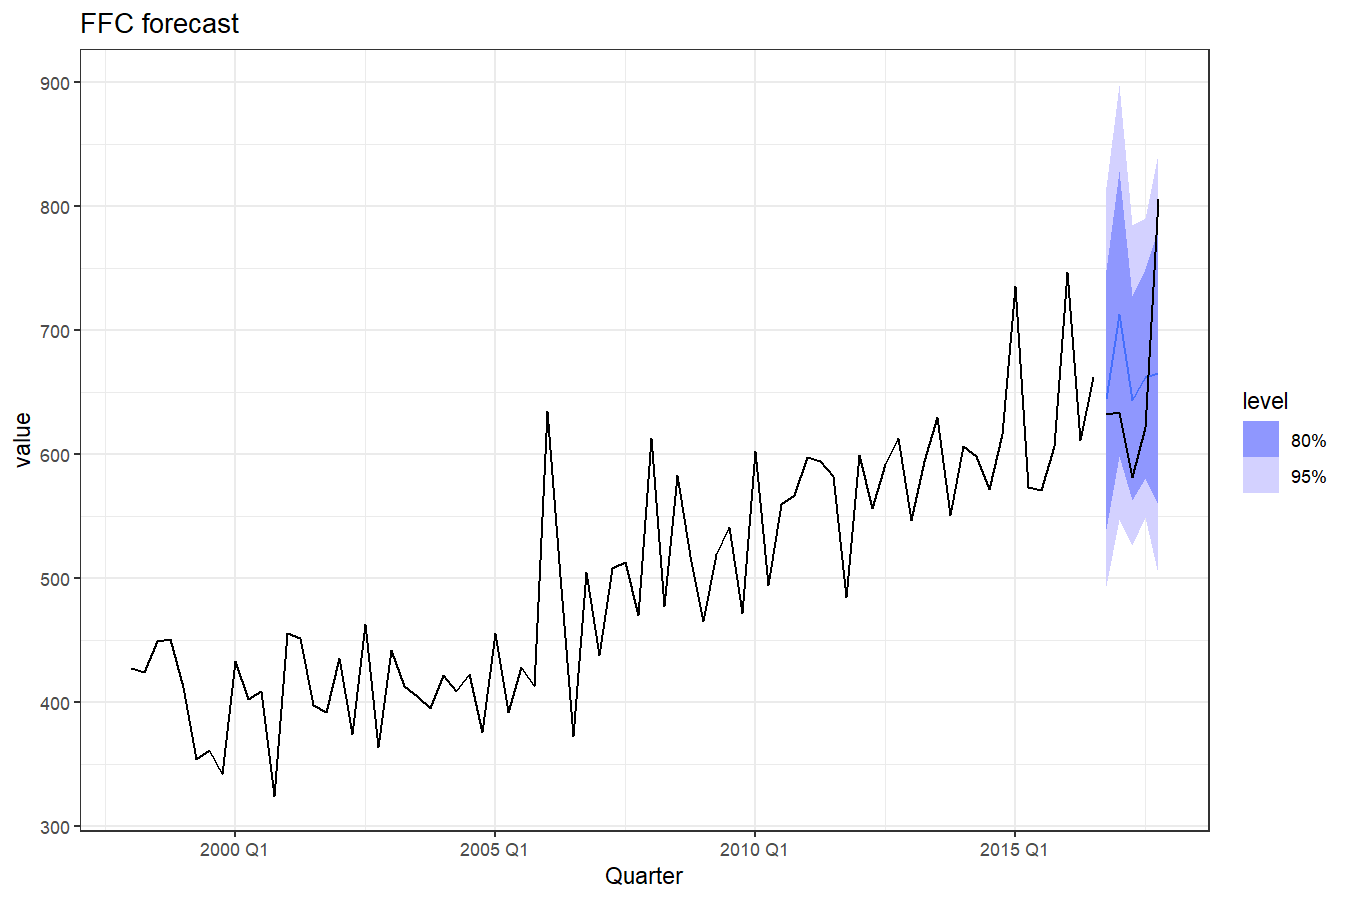
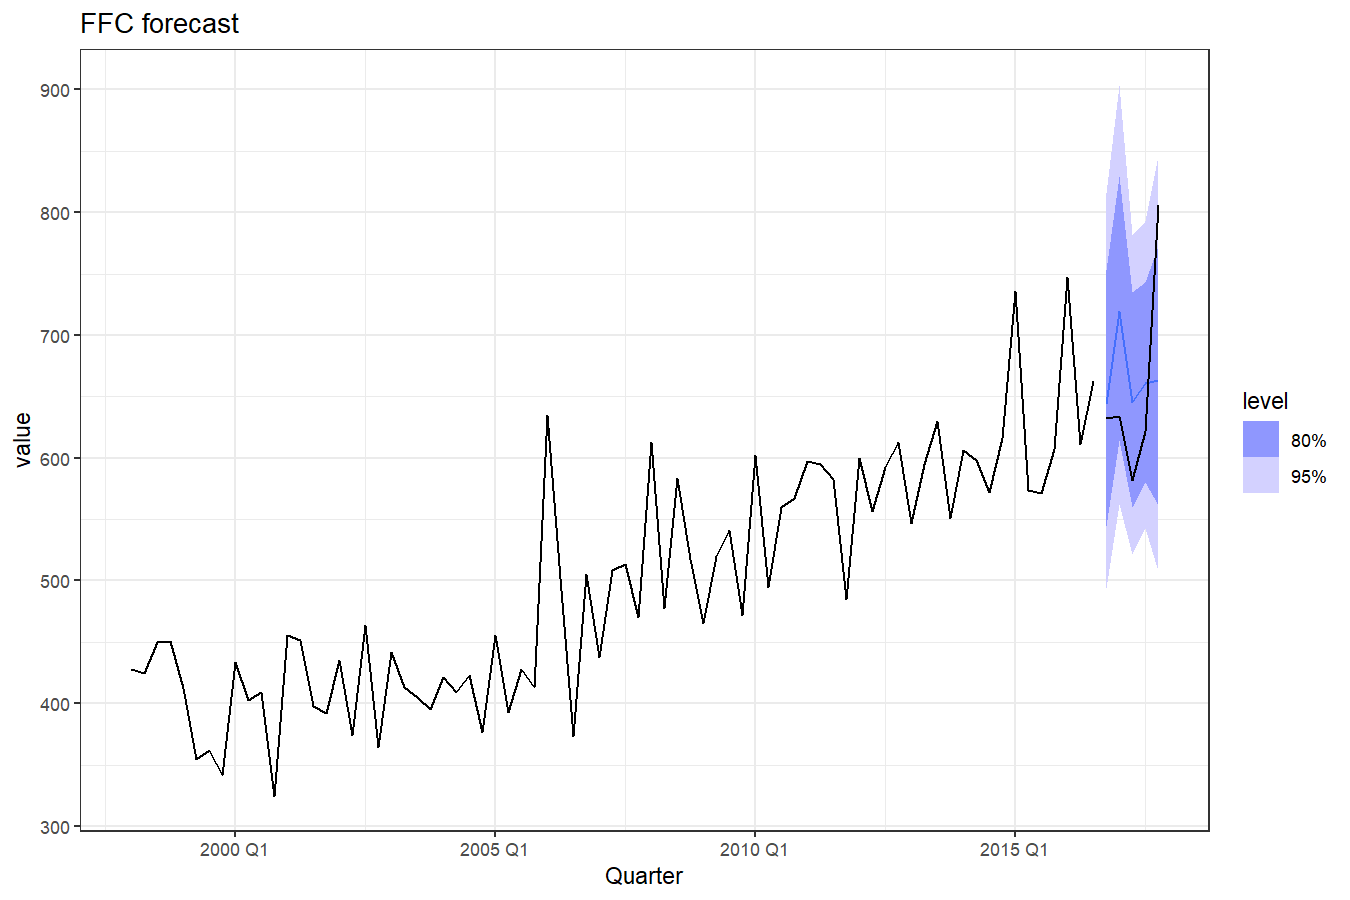
update tests for cmdcheck

diff --git a/README.md b/README.md
@@ -112,14 +112,14 @@ mod <- ffc_gam(
     fts(
       year,
       mean_only = TRUE,
-      bs = 'tp',
+      bs = "tp",
       time_k = 35
     ) +
     # Model the male/female deviations around the shared mean
     fts(
       age,
       by = sex,
-      bs = 'tp',
+      bs = "tp",
       time_k = 15
     ),
   time = "year",
@@ -299,16 +299,16 @@ functional_coefs
 #> # A tibble: 7,790 × 5
 #>    .basis         .time .estimate .realisation  year
 #>    <chr>          <int>     <dbl>        <int> <int>
-#>  1 fts_year1_mean  1980     0.386            1  1980
-#>  2 fts_year1_mean  1981     0.379            1  1981
-#>  3 fts_year1_mean  1982     0.419            1  1982
-#>  4 fts_year1_mean  1983     0.325            1  1983
-#>  5 fts_year1_mean  1984     0.318            1  1984
-#>  6 fts_year1_mean  1985     0.331            1  1985
-#>  7 fts_year1_mean  1986     0.280            1  1986
+#>  1 fts_year1_mean  1980     0.366            1  1980
+#>  2 fts_year1_mean  1981     0.378            1  1981
+#>  3 fts_year1_mean  1982     0.407            1  1982
+#>  4 fts_year1_mean  1983     0.324            1  1983
+#>  5 fts_year1_mean  1984     0.323            1  1984
+#>  6 fts_year1_mean  1985     0.326            1  1985
+#>  7 fts_year1_mean  1986     0.279            1  1986
 #>  8 fts_year1_mean  1987     0.257            1  1987
-#>  9 fts_year1_mean  1988     0.247            1  1988
-#> 10 fts_year1_mean  1989     0.264            1  1989
+#>  9 fts_year1_mean  1988     0.246            1  1988
+#> 10 fts_year1_mean  1989     0.259            1  1989
 #> # ℹ 7,780 more rows
 ```
 
@@ -344,16 +344,16 @@ functional_fc
 #> # Key:       .basis, .realisation, .model, .rep [950]
 #>    .basis                     .realisation .model .time .rep   .sim
 #>    <chr>                             <int> <chr>  <dbl> <chr> <dbl>
-#>  1 fts_bs_s_age_bysexfemale_1            1 ARIMA   2021 1      4.85
+#>  1 fts_bs_s_age_bysexfemale_1            1 ARIMA   2021 1      4.87
 #>  2 fts_bs_s_age_bysexfemale_1            1 ARIMA   2022 1      4.85
-#>  3 fts_bs_s_age_bysexfemale_1            1 ARIMA   2023 1      4.86
-#>  4 fts_bs_s_age_bysexfemale_1            1 ARIMA   2024 1      4.87
-#>  5 fts_bs_s_age_bysexfemale_1            1 ARIMA   2025 1      4.89
-#>  6 fts_bs_s_age_bysexfemale_1            1 ARIMA   2021 2      4.85
-#>  7 fts_bs_s_age_bysexfemale_1            1 ARIMA   2022 2      4.84
-#>  8 fts_bs_s_age_bysexfemale_1            1 ARIMA   2023 2      4.82
-#>  9 fts_bs_s_age_bysexfemale_1            1 ARIMA   2024 2      4.78
-#> 10 fts_bs_s_age_bysexfemale_1            1 ARIMA   2025 2      4.72
+#>  3 fts_bs_s_age_bysexfemale_1            1 ARIMA   2023 1      4.84
+#>  4 fts_bs_s_age_bysexfemale_1            1 ARIMA   2024 1      4.82
+#>  5 fts_bs_s_age_bysexfemale_1            1 ARIMA   2025 1      4.79
+#>  6 fts_bs_s_age_bysexfemale_1            1 ARIMA   2021 2      4.87
+#>  7 fts_bs_s_age_bysexfemale_1            1 ARIMA   2022 2      4.85
+#>  8 fts_bs_s_age_bysexfemale_1            1 ARIMA   2023 2      4.85
+#>  9 fts_bs_s_age_bysexfemale_1            1 ARIMA   2024 2      4.85
+#> 10 fts_bs_s_age_bysexfemale_1            1 ARIMA   2025 2      4.85
 #> # ℹ 4,740 more rows
 ```
 
@@ -373,10 +373,14 @@ seamless integration with the `tsibbleverse`
 
 ``` r
 tourism_melb <- tourism %>%
-  filter(Region == "Melbourne",
-         Purpose == "Holiday") %>%
-  mutate(quarter = lubridate::quarter(Quarter),
-         time = dplyr::row_number())
+  filter(
+    Region == "Melbourne",
+    Purpose == "Holiday"
+  ) %>%
+  mutate(
+    quarter = lubridate::quarter(Quarter),
+    time = dplyr::row_number()
+  )
 tourism_melb
 #> # A tsibble: 80 x 7 [1Q]
 #> # Key:       Region, State, Purpose [1]
@@ -406,7 +410,7 @@ test <- tourism_melb %>%
   dplyr::slice_tail(n = 5)
 ```
 
-Now fit an `ffc` model. We use time-varying level and time-varying
+Now fit an `ffc_gam`. We use time-varying level and time-varying
 seasonality components, together with a Tweedie observation model
 (because our outcome, `Trips`, consists of non-negative real values).
 This model is simpler so we use the `'gam'` engine for fitting:
@@ -423,14 +427,14 @@ mod <- ffc_gam(
     # Time-varying seasonality
     fts(
       quarter,
-      bs = 'tp',
+      bs = "tp",
       k = 4,
       time_k = 15
     ),
   time = "time",
   data = train,
   family = tw(),
-  engine = 'gam'
+  engine = "gam"
 )
 ```
 
@@ -451,7 +455,7 @@ to each coefficient time series
 fc <- forecast(
   object = mod,
   newdata = test,
-  model = 'ETS',
+  model = "ETS",
   summary = FALSE
 )
 ```
@@ -460,12 +464,12 @@ Convert resulting forecasts to a `fable` object for automatic plotting
 and/or scoring of forecasts
 
 ``` r
-test[['value']] <- fc
+test[["value"]] <- fc
 
 fc_ffc <- fabletools:::build_fable(
   test,
-  response = 'Trips',
-  distribution = 'value'
+  response = "Trips",
+  distribution = "value"
 )
 ```
 
@@ -478,7 +482,7 @@ fc_ffc %>%
     data = test,
     aes(y = Trips)
   ) +
-  ggtitle('FFC forecast')
+  ggtitle("FFC forecast")
 ```
 
 <img src="man/figures/README-unnamed-chunk-19-1.png" width="100%" />
@@ -489,7 +493,8 @@ simpler to code and of course a bit faster
 ``` r
 train %>%
   model(
-    arima = ARIMA(Trips)) %>%
+    arima = ARIMA(Trips)
+  ) %>%
   forecast(
     h = 5
   ) %>%
@@ -498,7 +503,7 @@ train %>%
     data = test,
     aes(y = Trips)
   ) +
-  ggtitle('ARIMA forecast')
+  ggtitle("ARIMA forecast")
 ```
 
 <img src="man/figures/README-unnamed-chunk-20-1.png" width="100%" />
@@ -506,7 +511,8 @@ train %>%
 ``` r
 train %>%
   model(
-    ets = ETS(Trips)) %>%
+    ets = ETS(Trips)
+  ) %>%
   forecast(
     h = 5
   ) %>%
@@ -515,7 +521,7 @@ train %>%
     data = test,
     aes(y = Trips)
   ) +
-  ggtitle('ETS forecast')
+  ggtitle("ETS forecast")
 ```
 
 <img src="man/figures/README-unnamed-chunk-21-1.png" width="100%" />
